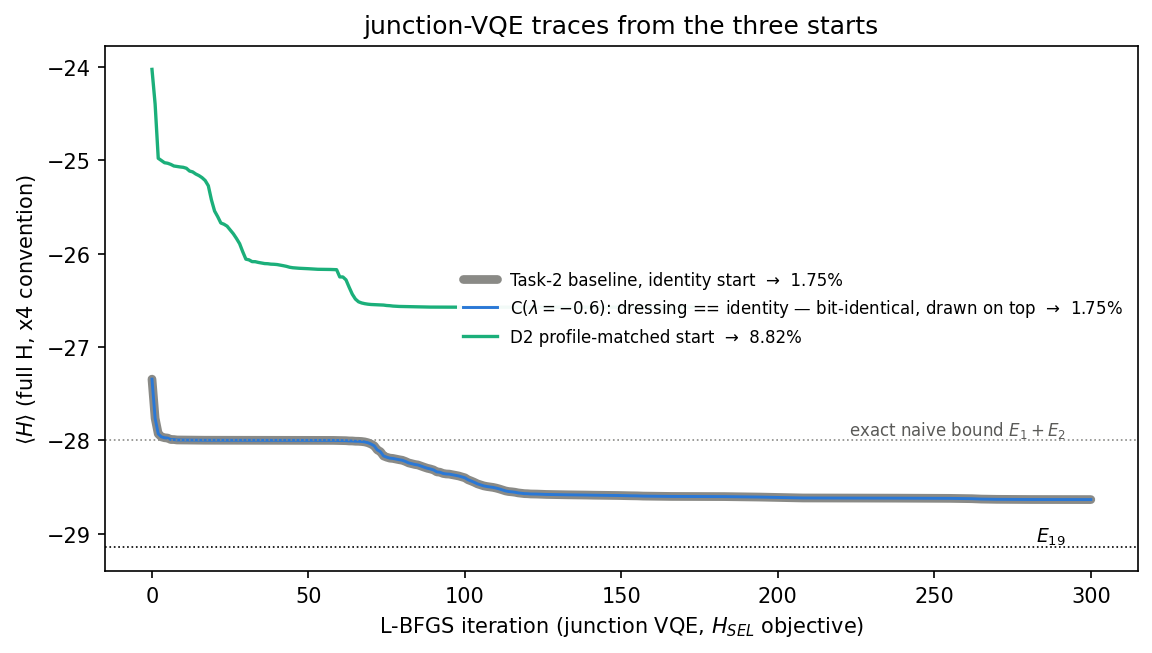
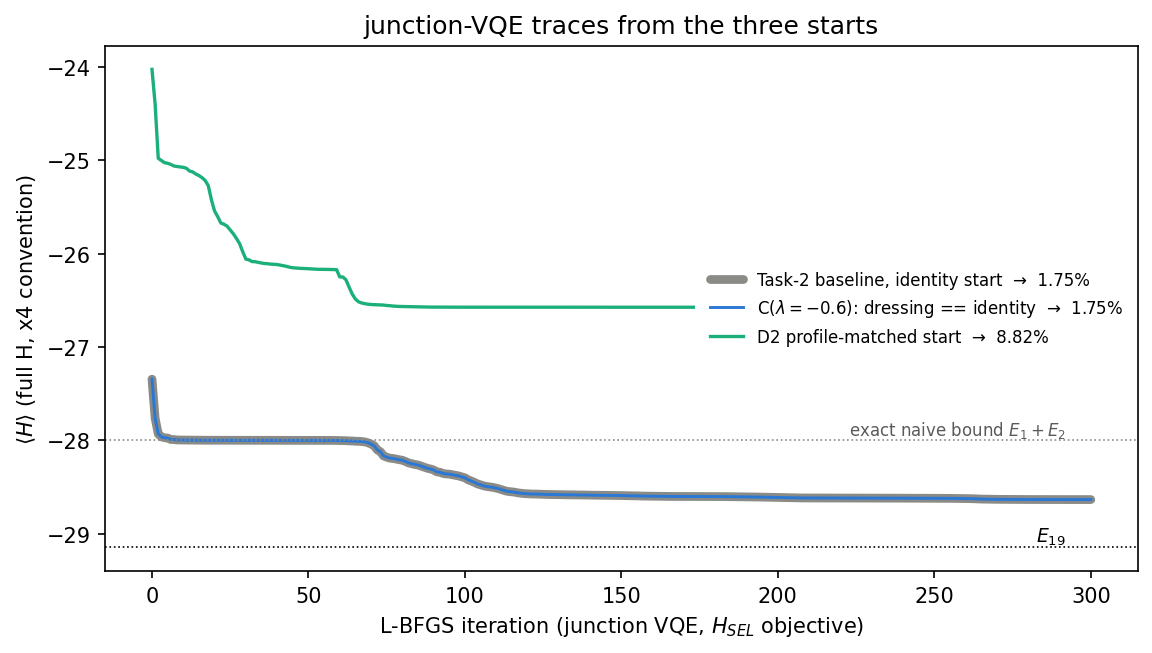
Update README and figures for 3_Task
- Adjusted the λ window in the README from [−0.5, +0.7] to [−0.55, +0.70] to reflect accurate Majumdar–Ghosh stability findings.
- Updated binary figures: er_preanalysis.png, er_predictor.png, and er_traces.png to include the latest visual data.

Changed region(s): [[0.4062, 0.3982, 0.9062, 0.5513], [0.9062, 0.3982, 0.9375, 0.4288]]

diff --git a/3_Task/README.md b/3_Task/README.md
@@ -43,7 +43,7 @@ Key findings, in the order the notebook derives them:
   exception at 5.4×10⁻³).
 - **The NNN training Hamiltonian is self-defeating on this fragment** (§3): the
   dimer cover is the exact lowest S=0 state of H_NN + λ·H_NNN across the whole
-  window λ ∈ [−0.5, +0.7] (Majumdar–Ghosh stability), the ferromagnetic branch
+  window λ ∈ [−0.55, +0.70] (Majumdar–Ghosh stability), the ferromagnetic branch
   leaves the singlet sector, and the frustrated branch (λ ≥ +0.75) pays +8…+10
   locally while moving *away* from the target profile. The data-driven λ* (fit the
   NNN correlations to the ED) lands inside the window: calibrating the tool